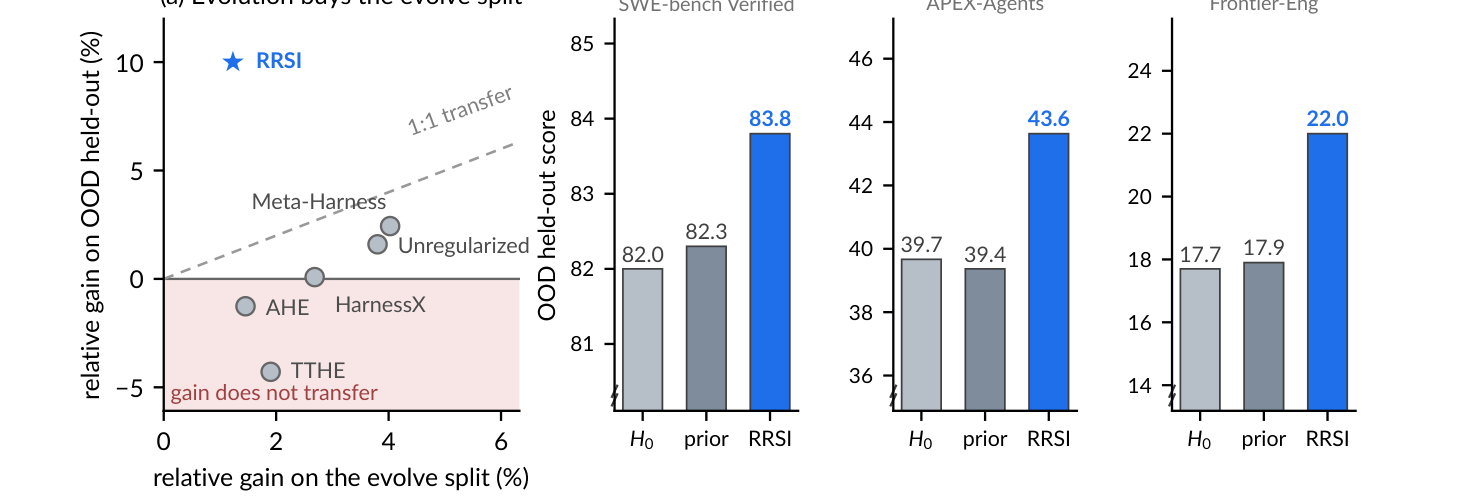
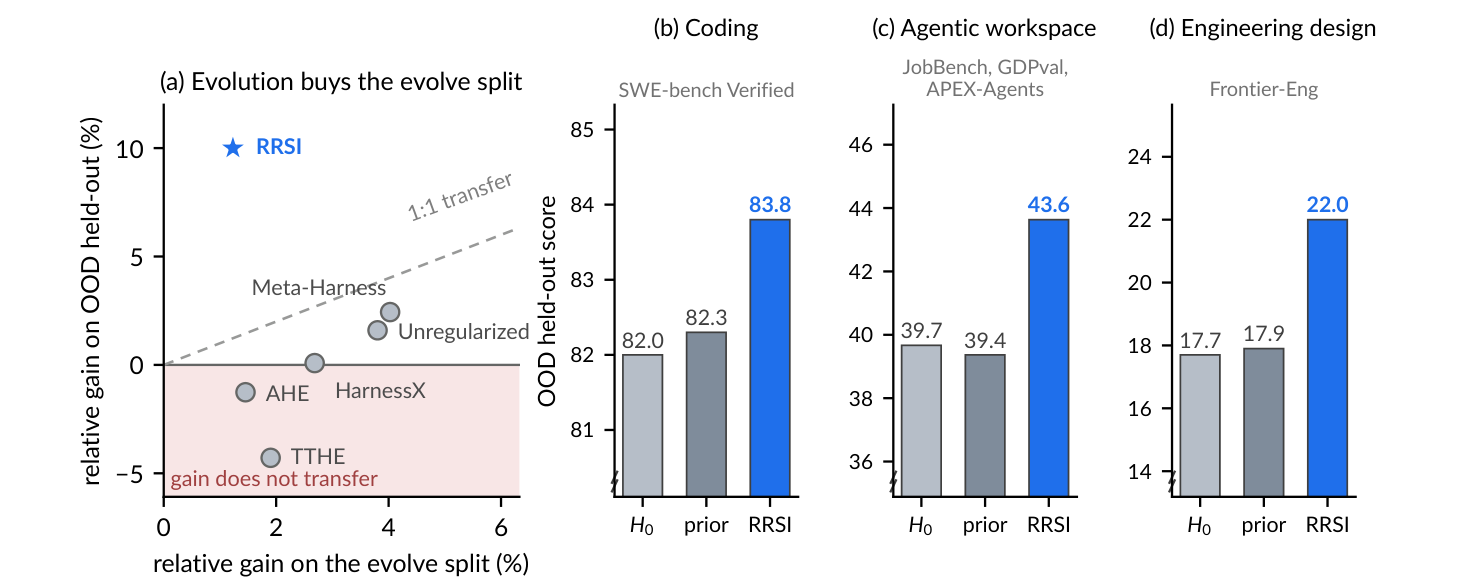
Fix RRSI Figure 1 crop; manage Python env with uv + pyproject.toml in repo
- picture-001.png: crop top was 114.9 and cut off the panel titles; re-parsed
  in place with --crop-top-override 2:figure:1=86.
- Add pyproject.toml, .python-version (3.12), uv.lock; ignore .venv/.
- Drop setup_env.sh/requirements.txt; update parser SKILL.md and CLAUDE.md to
  use uv sync / uv run and forbid venvs outside the repo.

Claude-Session: https://claude.ai/code/session_013ZBvKSyjqCkkQBPHami33j

diff --git a/.claude/skills/pdf-figure-table-parser/SKILL.md b/.claude/skills/pdf-figure-table-parser/SKILL.md
@@ -73,10 +73,13 @@ all" below.
 
 1. **Set up dependencies once per environment.**
    ```bash
-   bash scripts/setup_env.sh
-   source .venv-pdf-parser/bin/activate
+   uv sync        # from the repo root; reads pyproject.toml + .python-version
    ```
-   This installs `pymupdf`, `pdfplumber`, and `pillow` from PyPI -- no
+   Run every script below with `uv run python scripts/<name>.py ...` (from
+   the repo root, so use the full `.claude/skills/pdf-figure-table-parser/`
+   path). The environment lives in the repo's own `.venv/` and the Python
+   version is pinned in `pyproject.toml` -- don't create a venv anywhere
+   else. This installs `pymupdf`, `pdfplumber`, and `pillow` from PyPI -- no
    `huggingface.co` traffic, so it works under the same network policy that
    blocks docling.
 
@@ -540,8 +543,6 @@ pdf-figure-table-parser/
 ├── references/
 │   └── image-manifest-schema.md          field-by-field schema docs
 └── scripts/
-    ├── requirements.txt                  pymupdf, pdfplumber, pillow
-    ├── setup_env.sh                      one-shot venv bootstrap
     ├── pdf_parser_lib.py                 shared logic, imported by the rest
     ├── inspect_pdf.py                    dry-run: captions + image/drawing counts
     ├── dump_blocks.py                    manual debugging: per-page text block dump

diff --git a/CLAUDE.md b/CLAUDE.md
@@ -73,7 +73,9 @@ nothing to fix up afterwards. Only the normal
 `verify_manifest.py` depends on `pymupdf`,
 which is not part of this environment's default toolchain — if it fails
 with `ModuleNotFoundError: No module named 'pymupdf'`, run
-`pip install pymupdf` first rather than treating it as a manifest problem.
+`uv sync` from the repo root first (dependencies and the pinned Python live in
+`pyproject.toml`; run scripts with `uv run python ...`) rather than treating it
+as a manifest problem. Don't create virtual environments outside the repo.
 
 Expected contents of a topic directory, once both steps have run:
 
